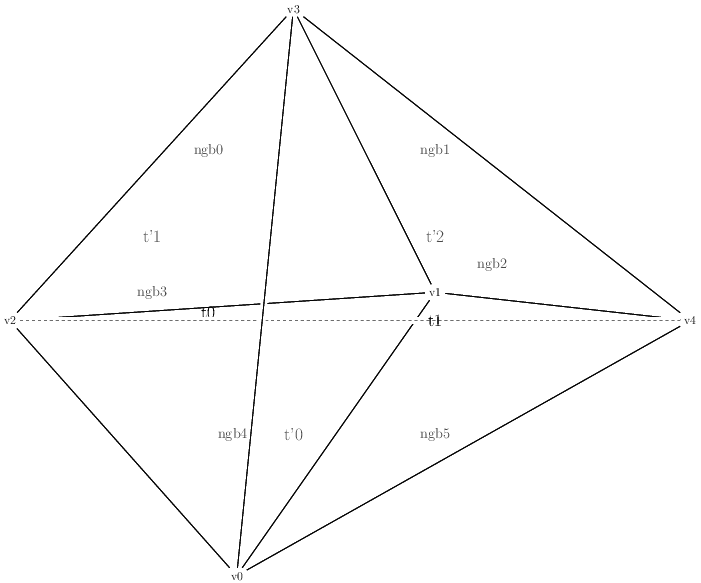
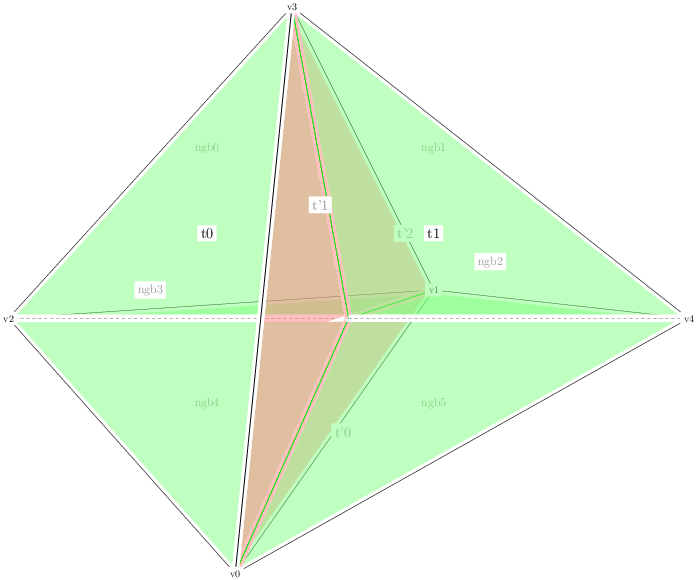
Improved 2 to 3 and 3 to 2 flip figure and documentation.

diff --git a/doc/newvoronoicell_two_to_three_flip.tex b/doc/newvoronoicell_two_to_three_flip.tex
@@ -1,10 +1,11 @@
-\documentclass[12pt]{standalone}
+\documentclass[convert={density=72,outext=.png}]{standalone}
 \usepackage{tikz}
 \usetikzlibrary{shapes.geometric, arrows}
 \usepackage{amsmath}
 
-\tikzstyle{node} = [rectangle, text centered, align=center]
-\tikzstyle{stealthnode} = [rectangle, text centered, align=center, color=gray]
+\tikzstyle{node} = [rectangle, text centered, align=center, fill=white]
+\tikzstyle{stealthnode} = [rectangle, text centered, align=center, color=gray,
+                           fill=white]
 \tikzstyle{arrow} = [thick,>=stealth]
 \tikzstyle{stealtharrow} = [thick,>=stealth, color=gray, dashed]
 
@@ -19,44 +20,82 @@
     \draw [#3] (#1) -- (#2);
 }
 
+\newcommand{\drawIntersectLine}[5]
+{
+    \draw [#4!50,line width=7pt, opacity=0.5]  (#1) -- (#2);
+    \draw [#3, color = #5] (#1) -- (#2);
+}
+
+\newcommand{\drawFace}[4]
+{
+  \fill [color=#4!50, opacity = 0.5] (#1) -- (#2) -- (#3) -- (#1);
+  \begin{scope}
+  \draw [color=white, line width=7pt, opacity=1.0] (#1) -- (#2) -- (#3) -- (#1);
+  \end{scope}
+  \draw (#1) -- (#2) -- (#3) -- (#1);
+}
+
 \begin{document}
 
 \begin{tikzpicture}[node distance=4.5cm]
-\node (v3) [node] {v3};
-\node (v1) [node, xshift = 5.0cm, yshift=-10.0cm] {v1};
-\node (v2) [node, xshift = -10.0cm, yshift=-11.0cm] {v2};
-\node (v0) [node, xshift = -2.0cm, yshift=-20.0cm] {v0};
-\node (v4) [node, xshift = 14.0cm, yshift=-11.0cm] {v4};
+\coordinate (c3) at (0.0cm, 0.0cm);
+\coordinate (c1) at (5.0cm, -10.0cm);
+\coordinate (c2) at (-10.0cm, -11.0cm);
+\coordinate (c0) at (-2.0cm, -20.0cm);
+\coordinate (c4) at (14.0cm, -11.0cm);
+\coordinate (intersect) at (2.0cm, -11.0cm);
 
-\drawLinewithBG{v1}{v3}{arrow}
-\drawLinewithBG{v1}{v2}{arrow}
-\drawLinewithBG{v0}{v1}{arrow}
-\drawLinewithBG{v0}{v2}{arrow}
-\drawLinewithBG{v2}{v3}{arrow}
+\drawLinewithBG{c1}{c3}{arrow}
+\drawLinewithBG{c1}{c2}{arrow}
+\drawLinewithBG{c0}{c1}{arrow}
+\drawLinewithBG{c0}{c2}{arrow}
+\drawLinewithBG{c2}{c3}{arrow}
 
-\drawLinewithBG{v0}{v4}{arrow}
-\drawLinewithBG{v1}{v4}{arrow}
-\drawLinewithBG{v3}{v4}{arrow}
-
-\node [node, xshift = -3.0cm, yshift = -10.7cm] {\Large t0};
-
-\drawLinewithBG{v2}{v4}{stealtharrow}
-
-\node [node, xshift = 5.0cm, yshift = -11.0cm] {\Large t1};
-
-\node [stealthnode, xshift = -2.15cm, yshift = -15.0cm] {\large ngb4};
-
-\drawLinewithBG{v0}{v3}{arrow}
-
-\node [stealthnode, xshift = 0.0cm, yshift = -15.0cm] {\Large t'0};
-\node [stealthnode, xshift = -5.0cm, yshift = -8.0cm] {\Large t'1};
-\node [stealthnode, xshift = 5.0cm, yshift = -8.0cm] {\Large t'2};
+\drawLinewithBG{c0}{c4}{arrow}
+\drawLinewithBG{c1}{c4}{arrow}
+\drawLinewithBG{c3}{c4}{arrow}
 
 \node [stealthnode, xshift = -3.0cm, yshift = -5.0cm] {\large ngb0};
 \node [stealthnode, xshift = 5.0cm, yshift = -5.0cm] {\large ngb1};
+\node [stealthnode, xshift = -3.0cm, yshift = -14.0cm] {\large ngb4};
+\node [stealthnode, xshift = 5.0cm, yshift = -14.0cm] {\large ngb5};
+
+\drawFace{c1}{c2}{intersect}{green}
+\drawFace{c0}{c2}{intersect}{green}
+\drawFace{c3}{c2}{intersect}{green}
+
+\drawLinewithBG{c2}{intersect}{stealtharrow}
+
+\drawFace{c0}{c1}{c3}{red}
+
+\node [stealthnode, xshift = 1.8cm, yshift = -15.0cm] {\Large t'0};
+
+\drawFace{c1}{c4}{intersect}{green}
+\drawIntersectLine{c1}{intersect}{arrow}{red}{green}
+\drawFace{c0}{c4}{intersect}{green}
+\drawIntersectLine{c0}{intersect}{arrow}{red}{green}
+\node (v1) [node, xshift = 5.0cm, yshift=-10.0cm] {v1};
+\node [stealthnode, xshift = 4.0cm, yshift = -8.0cm] {\Large t'2};
+
+\drawFace{c3}{c4}{intersect}{green}
+\drawIntersectLine{c3}{intersect}{arrow}{red}{green}
+
+\drawLinewithBG{intersect}{c4}{stealtharrow}
+
+\node [node, xshift = -3.0cm, yshift = -8.0cm] {\Large t0};
+\node [node, xshift = 5.0cm, yshift = -8.0cm] {\Large t1};
+
+\drawLinewithBG{c0}{c3}{arrow}
+
+\node [stealthnode, xshift = 1.0cm, yshift = -7.0cm] {\Large t'1};
+
 \node [stealthnode, xshift = 7.0cm, yshift = -9.0cm] {\large ngb2};
 \node [stealthnode, xshift = -5.0cm, yshift = -10.0cm] {\large ngb3};
-\node [stealthnode, xshift = 5.0cm, yshift = -15.0cm] {\large ngb5};
+
+\node (v3) [node] {v3};
+\node (v2) [node, xshift = -10.0cm, yshift=-11.0cm] {v2};
+\node (v0) [node, xshift = -2.0cm, yshift=-20.0cm] {v0};
+\node (v4) [node, xshift = 14.0cm, yshift=-11.0cm] {v4};
 
 \end{tikzpicture}
 

diff --git a/doc/newvoronoicell_three_to_two_flip.tex b/doc/newvoronoicell_three_to_two_flip.tex
@@ -1,10 +1,11 @@
-\documentclass[12pt]{standalone}
+\documentclass[convert={density=72,outext=.png}]{standalone}
 \usepackage{tikz}
 \usetikzlibrary{shapes.geometric, arrows}
 \usepackage{amsmath}
 
-\tikzstyle{node} = [rectangle, text centered, align=center]
-\tikzstyle{stealthnode} = [rectangle, text centered, align=center, color=gray]
+\tikzstyle{node} = [rectangle, text centered, align=center, fill=white]
+\tikzstyle{stealthnode} = [rectangle, text centered, align=center, color=gray,
+                           fill=white]
 \tikzstyle{arrow} = [thick,>=stealth]
 \tikzstyle{stealtharrow} = [thick,>=stealth, color=gray, dashed]
 
@@ -19,44 +20,79 @@
     \draw [#3] (#1) -- (#2);
 }
 
+\newcommand{\drawIntersectLine}[5]
+{
+    \draw [#4!50,line width=7pt, opacity=0.5]  (#1) -- (#2);
+    \draw [#3, color = #5] (#1) -- (#2);
+}
+
+\newcommand{\drawFace}[4]
+{
+  \fill [color=#4!50, opacity = 0.5] (#1) -- (#2) -- (#3) -- (#1);
+  \begin{scope}
+  \draw [color=white, line width=7pt, opacity=1.0] (#1) -- (#2) -- (#3) -- (#1);
+  \end{scope}
+  \draw (#1) -- (#2) -- (#3) -- (#1);
+}
+
 \begin{document}
 
 \begin{tikzpicture}[node distance=4.5cm]
-\node (v3) [node] {v3};
-\node (v1) [node, xshift = 5.0cm, yshift=-10.0cm] {v1};
-\node (v2) [node, xshift = -10.0cm, yshift=-11.0cm] {v2};
-\node (v0) [node, xshift = -2.0cm, yshift=-20.0cm] {v0};
-\node (v4) [node, xshift = 14.0cm, yshift=-11.0cm] {v4};
+\coordinate (c3) at (0.0cm, 0.0cm);
+\coordinate (c1) at (5.0cm, -10.0cm);
+\coordinate (c2) at (-10.0cm, -11.0cm);
+\coordinate (c0) at (-2.0cm, -20.0cm);
+\coordinate (c4) at (14.0cm, -11.0cm);
+\coordinate (intersect) at (2.0cm, -11.0cm);
 
-\drawLinewithBG{v1}{v3}{arrow}
-\drawLinewithBG{v1}{v2}{arrow}
-\drawLinewithBG{v0}{v1}{arrow}
-\drawLinewithBG{v0}{v2}{arrow}
-\drawLinewithBG{v2}{v3}{arrow}
+\drawLinewithBG{c1}{c3}{arrow}
+\drawLinewithBG{c1}{c2}{arrow}
+\drawLinewithBG{c0}{c1}{arrow}
+\drawLinewithBG{c0}{c2}{arrow}
+\drawLinewithBG{c2}{c3}{arrow}
 
-\drawLinewithBG{v0}{v4}{arrow}
-\drawLinewithBG{v1}{v4}{arrow}
-\drawLinewithBG{v3}{v4}{arrow}
-
-\node [stealthnode, xshift = -3.0cm, yshift = -10.7cm] {\Large t'0};
-
-\drawLinewithBG{v2}{v4}{arrow}
-
-\node [stealthnode, xshift = 5.0cm, yshift = -11.0cm] {\Large t'1};
-
-\node [stealthnode, xshift = -2.15cm, yshift = -15.0cm] {\large ngb4};
-
-\drawLinewithBG{v0}{v3}{arrow}
-
-\node [node, xshift = 0.0cm, yshift = -15.0cm] {\Large t0};
-\node [node, xshift = -5.0cm, yshift = -8.0cm] {\Large t1};
-\node [node, xshift = 5.0cm, yshift = -8.0cm] {\Large t2};
+\drawLinewithBG{c0}{c4}{arrow}
+\drawLinewithBG{c1}{c4}{arrow}
+\drawLinewithBG{c3}{c4}{arrow}
 
 \node [stealthnode, xshift = -3.0cm, yshift = -5.0cm] {\large ngb0};
 \node [stealthnode, xshift = 5.0cm, yshift = -5.0cm] {\large ngb1};
+\node [stealthnode, xshift = -3.0cm, yshift = -14.0cm] {\large ngb4};
+\node [stealthnode, xshift = 5.0cm, yshift = -14.0cm] {\large ngb5};
+
+\drawFace{c1}{c2}{intersect}{red}
+\drawFace{c0}{c2}{intersect}{red}
+\drawFace{c3}{c2}{intersect}{red}
+
+\drawFace{c0}{c1}{c3}{green}
+
+\node [node, xshift = 1.8cm, yshift = -15.0cm] {\Large t0};
+
+\drawFace{c1}{c4}{intersect}{red}
+\drawIntersectLine{c1}{intersect}{arrow}{green}{red}
+\drawFace{c0}{c4}{intersect}{red}
+\drawIntersectLine{c0}{intersect}{arrow}{green}{red}
+
+\node (v1) [node, xshift = 5.0cm, yshift=-10.0cm] {v1};
+\node [node, xshift = 4.0cm, yshift = -8.0cm] {\Large t2};
+
+\drawFace{c3}{c4}{intersect}{red}
+\drawIntersectLine{c3}{intersect}{arrow}{green}{red}
+
+\node [stealthnode, xshift = -3.0cm, yshift = -8.0cm] {\Large t'0};
+\node [stealthnode, xshift = 5.0cm, yshift = -8.0cm] {\Large t'1};
+
+\drawLinewithBG{c0}{c3}{arrow}
+
+\node [node, xshift = 1.0cm, yshift = -7.0cm] {\Large t1};
+
 \node [stealthnode, xshift = 7.0cm, yshift = -9.0cm] {\large ngb2};
 \node [stealthnode, xshift = -5.0cm, yshift = -10.0cm] {\large ngb3};
-\node [stealthnode, xshift = 5.0cm, yshift = -15.0cm] {\large ngb5};
+
+\node (v3) [node] {v3};
+\node (v2) [node, xshift = -10.0cm, yshift=-11.0cm] {v2};
+\node (v0) [node, xshift = -2.0cm, yshift=-20.0cm] {v0};
+\node (v4) [node, xshift = 14.0cm, yshift=-11.0cm] {v4};
 
 \end{tikzpicture}
 

diff --git a/src/NewVoronoiCell.cpp b/src/NewVoronoiCell.cpp
@@ -918,11 +918,21 @@ void NewVoronoiCell::n_to_2n_flip(unsigned int new_vertex,
  *
  * @image html newvoronoicell_two_to_three_flip.png
  *
- * The two positively oriented tetrahedra (0123) and (0134) in the figure are
- * replaced with three new positively oriented tetrahedra: (0124), (0423), and
- * (4123). The new neighbour relations can be easily deduced from the figure,
- * while the new neighbour indices are automatically set by the way we construct
- * the new tetrahedra.
+ * The two positively oriented tetrahedra (v0 v1 v2 v3) and (v0 v1 v3 v4) (that
+ * share the red face in the figure) are
+ * replaced with three new positively oriented tetrahedra (that share the green
+ * faces): (v0 v1 v2 v4), (v0 v4 v2 v3), and (v4 v1 v2 v3).
+ *
+ * Before the flip, t0 has ngb0, ngb3 and ngb4 as neighbours, while t1 has ngb1,
+ * ngb2 and ngb5 as neighbours. After the flip, t'0 has ngb4 and ngb5 as
+ * neighbours, t'1 has ngb3 and ngb4 as neighbours, and t'2 has ngb0 and ngb1
+ * as neighbours.
+ *
+ * We first figure out the indices of the common triangle vertices v0, v1 and v3
+ * in both tetrahedra. Once we know these, it is very straigthforward to match
+ * each index to one of these three vertices (requiring that t0 is positively
+ * oriented). We can then get the actual vertices, neighbours and neighbour
+ * indices and construct the new tetrahedra.
  *
  * @param tetrahedron0 First tetrahedron.
  * @param tetrahedron1 Second tetrahedron.
@@ -1294,11 +1304,31 @@ unsigned int NewVoronoiCell::four_to_four_flip(unsigned int tetrahedron0,
  *
  * @image html newvoronoicell_three_to_two_flip.png
  *
- * The three positively oriented tetrahedra (0124), (0423), and (4123) are
- * replaced with two new positively oriented tetrahedra: (0123) and (0134).
- * The new neighbour relations can be easily deduced from the figure, while the
- * new neighbour indices are automatically set by the way we construct the new
- * tetrahedra.
+ * The three positively oriented tetrahedra (v0 v1 v2 v4), (v0 v4 v2 v3), and
+ * (v4 v1 v2 v3) (with the red common faces in the figure) are
+ * replaced with two new positively oriented tetrahedra (with a green common
+ * face in the figure): (v0 v1 v2 v3) and (v0 v1 v3 v4).
+ *
+ * Originally, t0 has ngb4 and ngb5 as neighbours, t1 has ngb2 and ngb3 as
+ * neighbours, and t2 has ngb0 and ngb1 as neighbours. After the flip, t'0 has
+ * ngb0, ngb3 and ngb4 as neighbours, while t'1 has ngb1, ngb2 and ngb5 as
+ * neighbours.
+ *
+ * We first find the indices of the common axis (v2 v4) in all three tetrahedra,
+ * plus the index of v0 (the third common vertex of t0 and t1) in t0. Once we
+ * have these we also know the index of v1 in t0, and we can find out which of
+ * the two axis indices corresponds to v2 and which to v4 by requiring that the
+ * four indices are a positively oriented permutation of 0123. Once this is
+ * done, it is very straightforward to obtain the other indices in the other
+ * tetrahedra. We can then get the actual vertices, neighbours and neighbour
+ * indices, and construct the two new tetrahedra.
+ *
+ * Note that because this flip removes a tetrahedron, it will free up a spot in
+ * the tetrahedra vector. Since removing the tetrahedron from that vector would
+ * be very expensive (since it requires a reshuffle of all tetrahedra behind it
+ * and requires us to update the neighbour relations for all of these
+ * tetrahedra), we just leave it in and keep an extra stack of free spots in the
+ * tetrahedra array, which can be filled by other flips.
  *
  * @param tetrahedron0 First tetrahedron.
  * @param tetrahedron1 Second tetrahedron.

diff --git a/doc/newvoronoicell_one_to_four_flip.tex b/doc/newvoronoicell_one_to_four_flip.tex
@@ -69,8 +69,6 @@
 \drawLinewithBG{c3}{c4}{stealtharrow}
 \drawLinewithBG{c0}{c4}{stealtharrow}
 
-\drawLinewithBG{c0}{c3}{arrow}
-
 \node [stealthnode, xshift = 4.0cm, yshift = -7.0cm] {\Large t'1};
 \node [stealthnode, xshift = -1.0cm, yshift = -9.0cm] {\Large t'2};
 \node [stealthnode, xshift = -5.0cm, yshift = -9.0cm] {\large ngb1};
